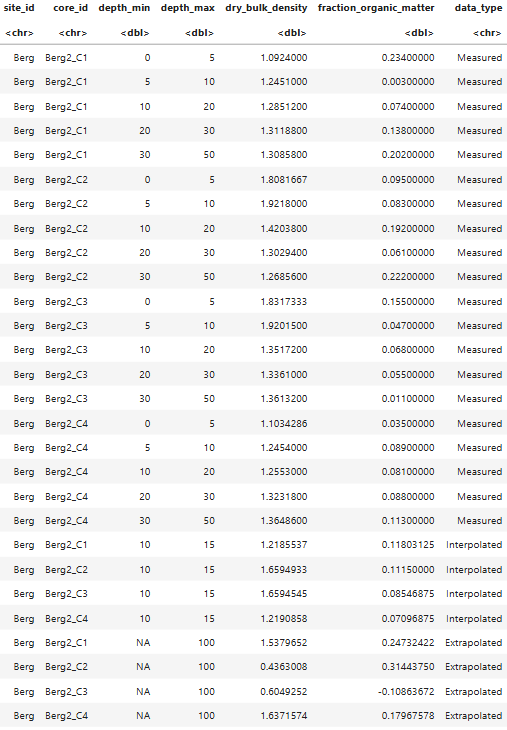
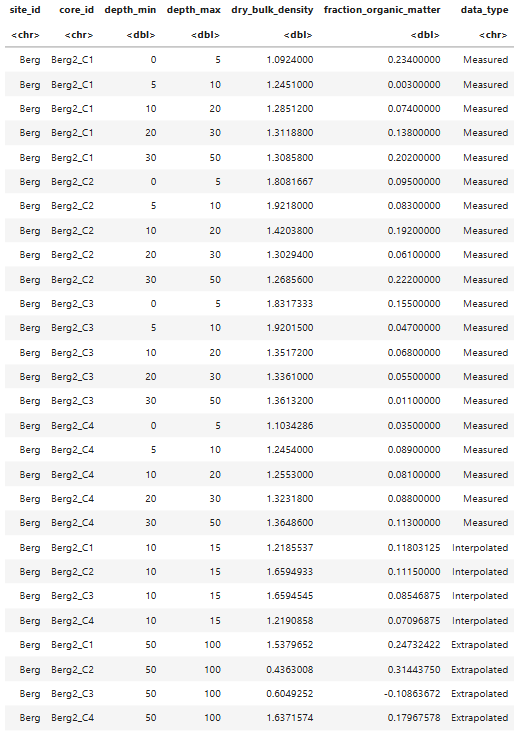
change the code

diff --git a/scripts-notebooks/calculations_helper.md b/scripts-notebooks/calculations_helper.md
@@ -59,7 +59,7 @@ Berg_sample_data |>
 dplyr::group_by(site_id, core_id) |>
 dplyr::summarise(dry_bulk_density = interpolate_slice(pick(depth_max, dry_bulk_density), 15),
                 fraction_organic_matter = interpolate_slice(pick(depth_max, fraction_organic_matter), 15), 
-                depth_min = get_nearest(depth_min, 15),
+                depth_min = max(depth_min[depth_min <= 15], na.rm = TRUE), 
                 depth_max = depth) |>
 dplyr::ungroup() |>
 dplyr::select(site_id, core_id, depth_min, depth_max, dry_bulk_density, fraction_organic_matter)
@@ -83,7 +83,7 @@ dplyr::group_by(site_id, core_id) |>
 Interpolated15cm <- dplyr::summarise(
 		    dry_bulk_density = interpolate_slice(pick(depth_max, dry_bulk_density), 15),
 		    fraction_organic_matter = interpolate_slice(pick(depth_max, fraction_organic_matter), 15), 
-		    depth_min = get_nearest(depth_min, 15),
+		    depth_min = max(depth_min[depth_min <= 15], na.rm = TRUE),
 		    depth_max = 15)
       
 ```
@@ -106,7 +106,7 @@ Extropolated100cm <- Berg_sample_data |>
                      dplyr::group_by(site_id, core_id) |>
                      dplyr::summarise(dry_bulk_density = predict_val(pick(depth_max, dry_bulk_density), 100),
                                     fraction_organic_matter = predict_val(pick(depth_max, fraction_organic_matter), 100), 
-                                    depth_min = get_nearest(depth_min, 100),
+                                    depth_min = max(depth_min[depth_min <= 100], na.rm = TRUE),
                                     depth_max = 100) |>
                      dplyr::ungroup() |>
                      dplyr::select(site_id, core_id, depth_min, depth_max, dry_bulk_density, fraction_organic_matter)
